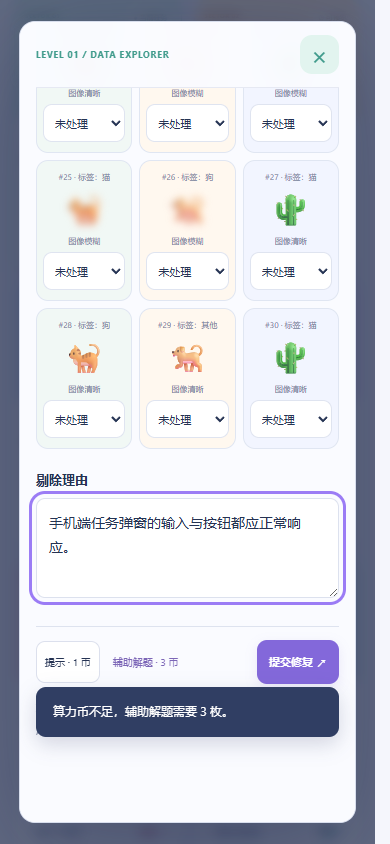
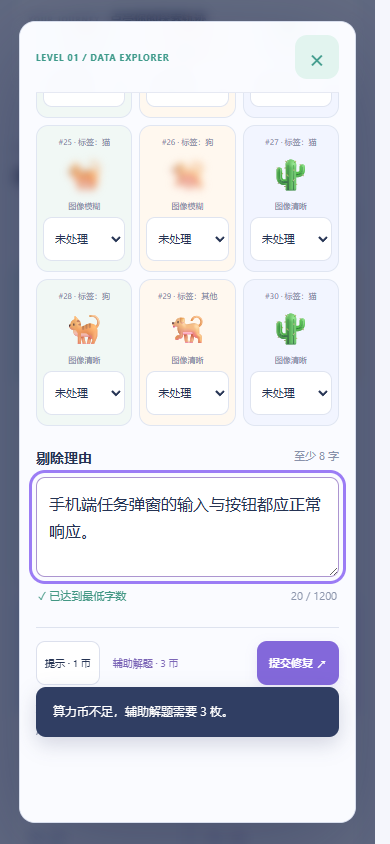
fix: finish integrated flow and passport print review (round 6)

diff --git a/app.js b/app.js
@@ -261,6 +261,15 @@ $('#mission-dialog').addEventListener('close', () => {
     target?.focus({preventScroll:true});
   });
 });
+let printDetails=[];
+window.addEventListener('beforeprint',()=>{
+  printDetails=$$('details',$('#main')).filter(el=>!el.open);
+  printDetails.forEach(el=>el.open=true);
+});
+window.addEventListener('afterprint',()=>{
+  printDetails.forEach(el=>el.open=false);
+  printDetails=[];
+});
 render();
 if(!storageAvailable) toast('当前浏览器限制本地存储，离开前请导出护照。');
 

diff --git a/README.md b/README.md
@@ -30,6 +30,8 @@ npm start
 - **课堂支持**：45 分钟、90 分钟、4 课时节奏提示，教师中心、角色分工与合作复盘。
 - **无需账号**：进度仅保存在当前浏览器的 `localStorage`；支持手机、平板、电脑及键盘操作。
 - **操作反馈**：关卡内显示余额不足与漏填提示；关闭弹窗后再次打开保留本次页面会话中的未提交内容（刷新会清空草稿）。手机端可直接切换课堂节奏。
+- **精细实验反馈**：数据处理计数、字数提示、提示词要素清单、训练曲线与快捷实验；模拟作品可下载为 SVG。
+- **探索档案**：护照证件、环形进度、可点击徽章、结构化回答与星际事件时间线；教师中心提供课堂步骤和节奏选择。
 
 ### 八个关卡
 
@@ -107,6 +109,8 @@ npm test        # Node.js 内置测试，无需安装测试框架
 CI 在 push 和 pull request 时运行检查。核心测试覆盖关卡锁定、重复奖励、资源消费、存档恢复、教学模拟和奖项条件。
 
 可选浏览器验证：安装本机 Microsoft Edge，并运行 `npm install --no-save --package-lock=false playwright`；保持 `npm start` 运行，在另一个终端执行 `node scripts/browser-check.mjs`。该脚本走完八关，并验证全部关卡预览、轨迹导航、筛选、返回首页、模式切换、任务草稿、输入错误、奖项、导出、打印调用、重置确认/取消、存档、移动布局和辅助解题。Playwright 仅用于可选 QA，不是游戏运行依赖。
+
+专项检查：`node scripts/polish-check.mjs`（实验与奖励）、`node scripts/layout-check.mjs`（五种屏幕宽度与护照/教师中心）、`node scripts/accessibility-check.mjs`（键盘、焦点与手机操作）。连续改进记录见 [精修日志](docs/POLISH_LOG.md)。
 
 ## 部署
 

diff --git a/docs/POLISH_LOG.md b/docs/POLISH_LOG.md
@@ -39,6 +39,13 @@
 - 补齐判断题的具体无障碍名称，扩大手机主要控件触控尺寸，优化输入字级。
 - 验证：Tab/Enter/Escape、弹窗焦点约束、校验定位、草稿恢复与44像素按钮均通过。
 
+## 第 6 轮：整体验证与打印
+
+- 完整回归八关、预览、筛选、奖励、导出、重置和不同宽度下的操作。
+- 打印护照前展开记录，打印后恢复原状态；确认徽章仍显示。
+- 更新README中的实验可视化与专项验证说明。
+- 验证：完整浏览器回归和打印专项检查通过，无页面脚本错误。
+
 ## 后续轮次
 
 2. 首页布局、图标和导航细节。
